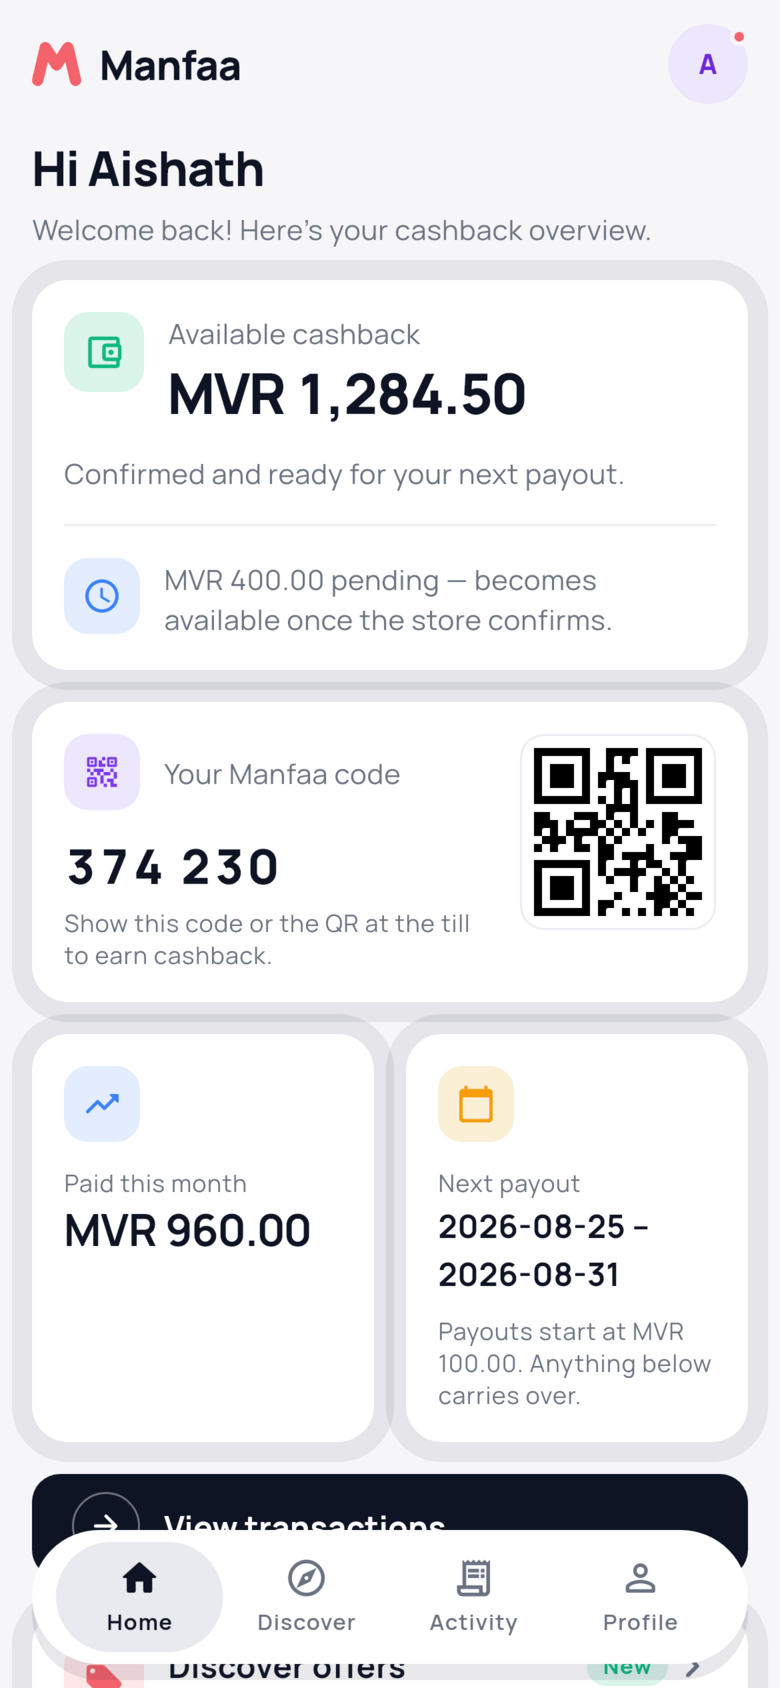
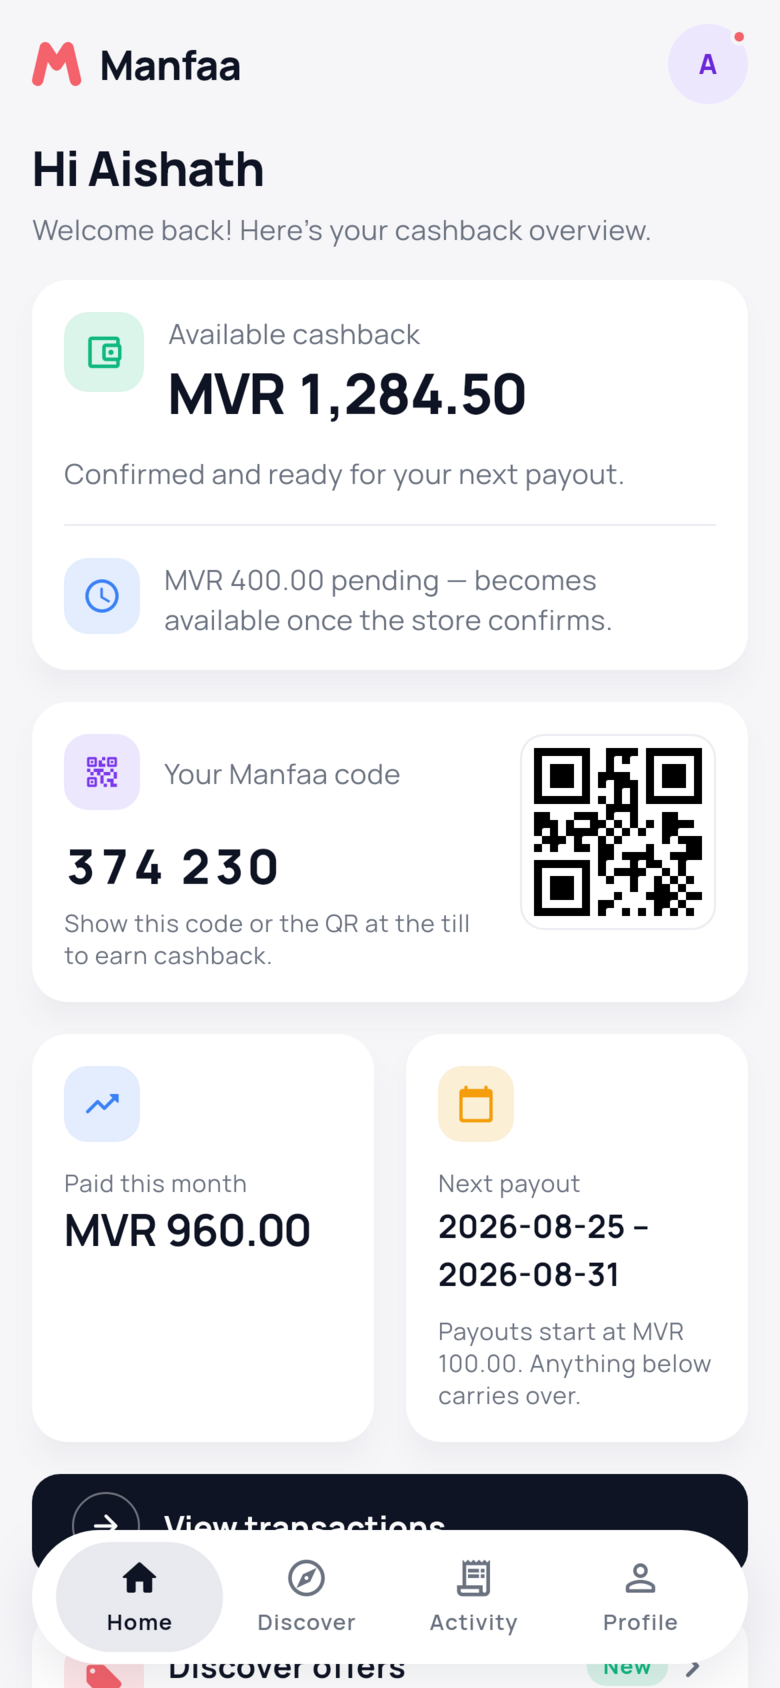
Support phone becomes a stored fact, and the hero sheds its grey halos
"Same as the contact number" used to be stored as NULL, with read models
expected to fall back — and the customer app's StorePage model reads a
contact_phone key the store payload never carried, so Tea Plus showed no
number at all. The number is now materialised on every write
(Merchant::booted(): blank copies contact, a matching copy follows a
contact change so it cannot go stale), existing NULLs are backfilled, the
store payload serves the number under both keys so shipped APKs heal
without an update, and every edit UI (web wizard, web settings, merchant
app setup) derives the tick by comparing the two fields and sends the
contact number itself when ticked.

The landing hero's screenshots are re-rendered with real soft shadows —
goldens run with debugDisableShadows, which paints solid grey boxes in
place of every card shadow, and that was the light-mode halo on the
landing page — and the desktop phone frame drops from 290px to 252px.

diff --git a/apps/merchant/app/(app)/settings/profile/page.tsx b/apps/merchant/app/(app)/settings/profile/page.tsx
@@ -92,8 +92,12 @@ function ProfileForm({
   const storeUrl = `${
     process.env.NEXT_PUBLIC_STOREFRONT_URL ?? 'https://manfaa.app'
   }/store/${profile.slug}`;
+  // Derived by COMPARISON: "same as contact" is stored as an actual copy of
+  // the contact number (the server materialises it), so the tick means the
+  // two fields hold the same number.
   const [supportSameAsContact, setSupportSameAsContact] = useState(
-    (profile.support_phone ?? '') === '',
+    (profile.support_phone ?? '') === '' ||
+      profile.support_phone === profile.contact_phone,
   );
   const [websiteUrl, setWebsiteUrl] = useState(profile.website_url ?? '');
   const [name, setName] = useState(profile.name);
@@ -108,7 +112,10 @@ function ProfileForm({
     setContactEmail(profile.contact_email ?? '');
     setContactPhone(profile.contact_phone ?? '');
     setSupportPhone(profile.support_phone ?? '');
-    setSupportSameAsContact((profile.support_phone ?? '') === '');
+    setSupportSameAsContact(
+      (profile.support_phone ?? '') === '' ||
+        profile.support_phone === profile.contact_phone,
+    );
     setWebsiteUrl(profile.website_url ?? '');
     setName(profile.name);
   }, [profile]);
@@ -157,9 +164,11 @@ function ProfileForm({
         contact_email: contactEmail.trim() === '' ? null : contactEmail.trim(),
         name: name.trim(),
         contact_phone: contactPhone.trim() === '' ? null : contactPhone.trim(),
-        // Null, not a copy of the contact number — see the wizard.
+        // The contact number itself, not null — the support field is always
+        // materialised so the storefront always has a real number; see the
+        // wizard and Merchant::booted().
         support_phone: supportSameAsContact || supportPhone.trim() === ''
-          ? null
+          ? (contactPhone.trim() === '' ? null : contactPhone.trim())
           : supportPhone.trim(),
         website_url: websiteUrl.trim() === '' ? null : websiteUrl.trim(),
       },

diff --git a/apps/merchant/components/setup/setup-wizard.tsx b/apps/merchant/components/setup/setup-wizard.tsx
@@ -235,10 +235,13 @@ function ProfileStep({
   const [supportPhone, setSupportPhone] = useState(
     state.values.support_phone ?? '',
   );
-  // Ticked when the store has not set a distinct support line — which is the
-  // common case, and the state a fresh signup starts in.
+  // Derived by COMPARISON, not by absence: "same as contact" is stored as
+  // an actual copy of the contact number (the server materialises it), so
+  // the tick means "these two fields hold the same number" — including the
+  // fresh-signup state where both are still empty.
   const [supportSameAsContact, setSupportSameAsContact] = useState(
-    (state.values.support_phone ?? '') === '',
+    (state.values.support_phone ?? '') === '' ||
+      state.values.support_phone === state.values.contact_phone,
   );
   const [categoryError, setCategoryError] = useState(false);
 
@@ -253,11 +256,12 @@ function ProfileStep({
         channel,
         contact_email: contactEmail.trim() === '' ? null : contactEmail.trim(),
         contact_phone: contactPhone.trim() === '' ? null : contactPhone.trim(),
-        // Same-as-contact is stored as NULL rather than as a copy: the
-        // storefront already falls back to the contact number, and a copy
-        // would silently go stale the day the contact number changes.
+        // Same-as-contact sends the contact number itself — the support
+        // field is always materialised so the storefront always has a real
+        // number. Staleness is the server's problem: a stored copy follows
+        // the contact number when it changes (Merchant::booted()).
         support_phone: supportSameAsContact || supportPhone.trim() === ''
-          ? null
+          ? (contactPhone.trim() === '' ? null : contactPhone.trim())
           : supportPhone.trim(),
         website_url: websiteUrl.trim() === '' ? null : websiteUrl.trim(),
       },

diff --git a/mobile/merchant/lib/features/setup/profile_step.dart b/mobile/merchant/lib/features/setup/profile_step.dart
@@ -34,9 +34,12 @@ class _ProfileStepState extends ConsumerState<ProfileStep> {
   late final _website =
       TextEditingController(text: widget.state.values.websiteUrl ?? '');
 
-  /// Ticked when the store has no distinct support line — the state a fresh
-  /// signup starts in.
-  late bool _supportSame = (widget.state.values.supportPhone ?? '').isEmpty;
+  /// Derived by COMPARISON: "same as contact" is stored as an actual copy
+  /// of the contact number (the server materialises it), so the tick means
+  /// the two fields hold the same number — including the fresh-signup state
+  /// where both are still empty.
+  late bool _supportSame = (widget.state.values.supportPhone ?? '').isEmpty ||
+      widget.state.values.supportPhone == widget.state.values.contactPhone;
 
   var _busy = false;
   var _categoryError = false;
@@ -69,7 +72,12 @@ class _ProfileStepState extends ConsumerState<ProfileStep> {
             channel: _channel,
             contactEmail: _clean(_contactEmail),
             contactPhone: _clean(_contactPhone),
-            supportPhone: _supportSame ? null : _clean(_supportPhone),
+            // Same-as-contact sends the contact number itself — the support
+            // field is always materialised server-side so the storefront
+            // always has a real number to show.
+            supportPhone: _supportSame
+                ? _clean(_contactPhone)
+                : (_clean(_supportPhone) ?? _clean(_contactPhone)),
             websiteUrl: _clean(_website),
           );
       if (mounted) widget.onSaved(fresh);

diff --git a/mobile/customer/test/marketing_shot_test.dart b/mobile/customer/test/marketing_shot_test.dart
@@ -2,6 +2,7 @@ import 'dart:convert';
 import 'dart:io';
 
 import 'package:flutter/material.dart';
+import 'package:flutter/rendering.dart' show debugDisableShadows;
 import 'dart:typed_data';
 
 import 'package:flutter/services.dart' show FontLoader, rootBundle;
@@ -68,6 +69,10 @@ void main() {
   setUpAll(_loadFonts);
 
   Future<void> shot(WidgetTester tester, String name, Brightness b) async {
+    // Golden runs disable real shadows and draw solid grey boxes instead —
+    // the exact halo the owner flagged on the landing hero. Marketing shots
+    // must look like the device, so real soft shadows are restored here.
+    debugDisableShadows = false;
     await tester.binding.setSurfaceSize(const Size(390, 844));
     tester.view.devicePixelRatio = 3.0;
     tester.view.physicalSize = const Size(390 * 3, 844 * 3);
@@ -111,6 +116,10 @@ void main() {
       find.byType(ManfaaApp),
       matchesGoldenFile('shots/$name.png'),
     );
+
+    // Restored INSIDE the body: the framework asserts painting debug vars
+    // before tearDowns run.
+    debugDisableShadows = true;
   }
 
   testWidgets('marketing home light',

diff --git a/apps/web/components/app/hero-phone.tsx b/apps/web/components/app/hero-phone.tsx
@@ -26,7 +26,7 @@ export function HeroPhone() {
 
       {/* The device — floats slowly. */}
       <div className="motion-safe:animate-hero-float">
-        <div className="relative w-[264px] overflow-hidden rounded-[2.4rem] border-[7px] border-zinc-900 bg-zinc-900 shadow-2xl shadow-zinc-900/25 dark:border-zinc-700 sm:w-[290px]">
+        <div className="relative w-[236px] overflow-hidden rounded-[2.2rem] border-[6px] border-zinc-900 bg-zinc-900 shadow-2xl shadow-zinc-900/25 dark:border-zinc-700 sm:w-[252px]">
           {/* eslint-disable-next-line @next/next/no-img-element -- static marketing asset, exact pixels wanted */}
           <img
             src="/app-home-light.png"

diff --git a/mobile/packages/manfaa_core/lib/src/models.dart b/mobile/packages/manfaa_core/lib/src/models.dart
@@ -537,7 +537,10 @@ class StorePage {
           for (final item in (json['product_categories'] as List? ?? const []))
             (item as Map).cast<String, dynamic>(),
         ],
-        contactPhone: json['contact_phone'] as String?,
+        // The API serves the number under both keys; older payloads only
+        // carried support_phone, so fall back rather than show no phone.
+        contactPhone:
+            (json['contact_phone'] ?? json['support_phone']) as String?,
         websiteUrl: json['website_url'] as String?,
       );
 

diff --git a/api/app/Models/Merchant.php b/api/app/Models/Merchant.php
@@ -18,6 +18,38 @@ class Merchant extends Model
     protected $guarded = [];
 
     /**
+     * The support phone is always MATERIALISED (owner decision 2026-08-17):
+     * "same as the contact number" saves the contact number itself, and the
+     * edit UIs derive the tick by comparing the two fields. The previous
+     * convention — NULL means "same", read models fall back at display time
+     * — left the customer app showing no number at all, because a NULL
+     * survives every payload that forgets to fall back.
+     *
+     * Two rules, on every save regardless of which controller wrote:
+     *  - a blank support phone copies the contact phone;
+     *  - a support phone that matched the contact phone FOLLOWS it when the
+     *    contact changes (unless this save sets support explicitly) — so
+     *    the stored copy cannot go stale, which was the argument for the
+     *    NULL convention in the first place.
+     */
+    protected static function booted(): void
+    {
+        static::saving(function (Merchant $merchant): void {
+            if (blank($merchant->contact_phone)) {
+                return;
+            }
+
+            $wasSame = blank($merchant->getOriginal('support_phone'))
+                || $merchant->getOriginal('support_phone') === $merchant->getOriginal('contact_phone');
+
+            if (blank($merchant->support_phone)
+                || ($wasSame && $merchant->isDirty('contact_phone') && ! $merchant->isDirty('support_phone'))) {
+                $merchant->support_phone = $merchant->contact_phone;
+            }
+        });
+    }
+
+    /**
      * @return array<string, string>
      */
     protected function casts(): array

diff --git a/api/tests/Feature/MerchantSettings/ProfilePreferencesTest.php b/api/tests/Feature/MerchantSettings/ProfilePreferencesTest.php
@@ -241,3 +241,27 @@ it('renames the store without moving its link', function () {
     expect($merchant->name)->toBe('Chai House')
         ->and($merchant->slug)->toBe($slugBefore);
 });
+
+it('materialises the support phone: blank copies contact, a matching copy follows a contact change', function () {
+    // "Same as the contact number" saves the contact number itself — the
+    // old NULL-means-same convention reached the customer app as a store
+    // with no phone at all (Merchant::booted()).
+    $this->patchJson('/api/merchant/profile', [
+        'contact_phone' => '+9607771234',
+        'support_phone' => null,
+    ])->assertOk();
+
+    expect($this->merchant->refresh()->support_phone)->toBe('+9607771234');
+
+    // The stored copy follows the contact number, so it cannot go stale…
+    $this->patchJson('/api/merchant/profile', ['contact_phone' => '+9609998877'])->assertOk();
+    expect($this->merchant->refresh()->support_phone)->toBe('+9609998877');
+
+    // …but an explicitly distinct support line is respected and stays put.
+    $this->patchJson('/api/merchant/profile', ['support_phone' => '+9603334455'])->assertOk();
+    $this->patchJson('/api/merchant/profile', ['contact_phone' => '+9601112233'])->assertOk();
+
+    $merchant = $this->merchant->refresh();
+    expect($merchant->contact_phone)->toBe('+9601112233')
+        ->and($merchant->support_phone)->toBe('+9603334455');
+});

diff --git a/api/app/Domain/Discovery/DiscoveryService.php b/api/app/Domain/Discovery/DiscoveryService.php
@@ -805,10 +805,13 @@ final class DiscoveryService
             // The merchant's own eligibility wording, verbatim (§11: shown to
             // customers, never used in computation). Null when unset.
             'cashback_basis' => $merchant->eligibility_basis,
-            // How a shopper reaches the store. The support number falls back
-            // to the contact number so the storefront always has one to show
-            // — a store that never set a separate line is not a store with
-            // no phone.
+            // How a shopper reaches the store — served under BOTH keys,
+            // because the web store page reads support_phone while the
+            // customer app's StorePage model reads contact_phone (shipped
+            // APKs included). The ?? fallback stays as a belt for any row
+            // written before support_phone became always-materialised (see
+            // Merchant::booted()).
+            'contact_phone' => $merchant->support_phone ?? $merchant->contact_phone,
             'support_phone' => $merchant->support_phone ?? $merchant->contact_phone,
             'website_url' => self::normaliseUrl($merchant->website_url),
             // "Everything else" earns the standing rate above; excluded

diff --git a/api/tests/Feature/Customer/StorefrontTest.php b/api/tests/Feature/Customer/StorefrontTest.php
@@ -286,7 +286,7 @@ it('serves the full public store page for an active merchant', function () {
 
     expect(array_keys($data))->toBe([
         'name', 'name_dv', 'slug', 'category', 'logo_url', 'channel', 'featured',
-        'cashback_rate_percent', 'standing_cashback_rate_percent', 'promotion', 'cashback_basis', 'support_phone', 'website_url', 'category_rates', 'branches', 'joined',
+        'cashback_rate_percent', 'standing_cashback_rate_percent', 'promotion', 'cashback_basis', 'contact_phone', 'support_phone', 'website_url', 'category_rates', 'branches', 'joined',
     ]);
 
     // No product categories defined — the rates table is an empty list
@@ -511,7 +511,10 @@ it('publishes the store\'s support number and website, normalising a bare domain
         ->assertOk()
         ->json('data');
 
+    // Both keys, same number: the web store page reads support_phone, the
+    // customer app's StorePage model reads contact_phone.
     expect($data['support_phone'])->toBe('+9607779999')
+        ->and($data['contact_phone'])->toBe('+9607779999')
         ->and($data['website_url'])->toBe('https://teaplus.mv');
 });
 

diff --git a/api/database/migrations/2026_08_17_000001_backfill_merchant_support_phone.php b/api/database/migrations/2026_08_17_000001_backfill_merchant_support_phone.php
@@ -1,0 +1,33 @@
+<?php
+
+declare(strict_types=1);
+
+use Illuminate\Database\Migrations\Migration;
+use Illuminate\Support\Facades\DB;
+
+/**
+ * Data backfill for the support-phone materialisation (owner decision
+ * 2026-08-17): rows written under the old NULL-means-same-as-contact
+ * convention get the contact number copied in, so every store with a
+ * contact number has a support number from here on. Merchant::booted()
+ * keeps the invariant for all future writes.
+ */
+return new class extends Migration
+{
+    public function up(): void
+    {
+        DB::table('merchants')
+            ->where(function ($q) {
+                $q->whereNull('support_phone')->orWhere('support_phone', '');
+            })
+            ->whereNotNull('contact_phone')
+            ->where('contact_phone', '!=', '')
+            ->update(['support_phone' => DB::raw('contact_phone')]);
+    }
+
+    public function down(): void
+    {
+        // Irreversible by design: we cannot know which copies were backfilled
+        // versus typed, and reverting to NULL would resurrect the bug.
+    }
+};
